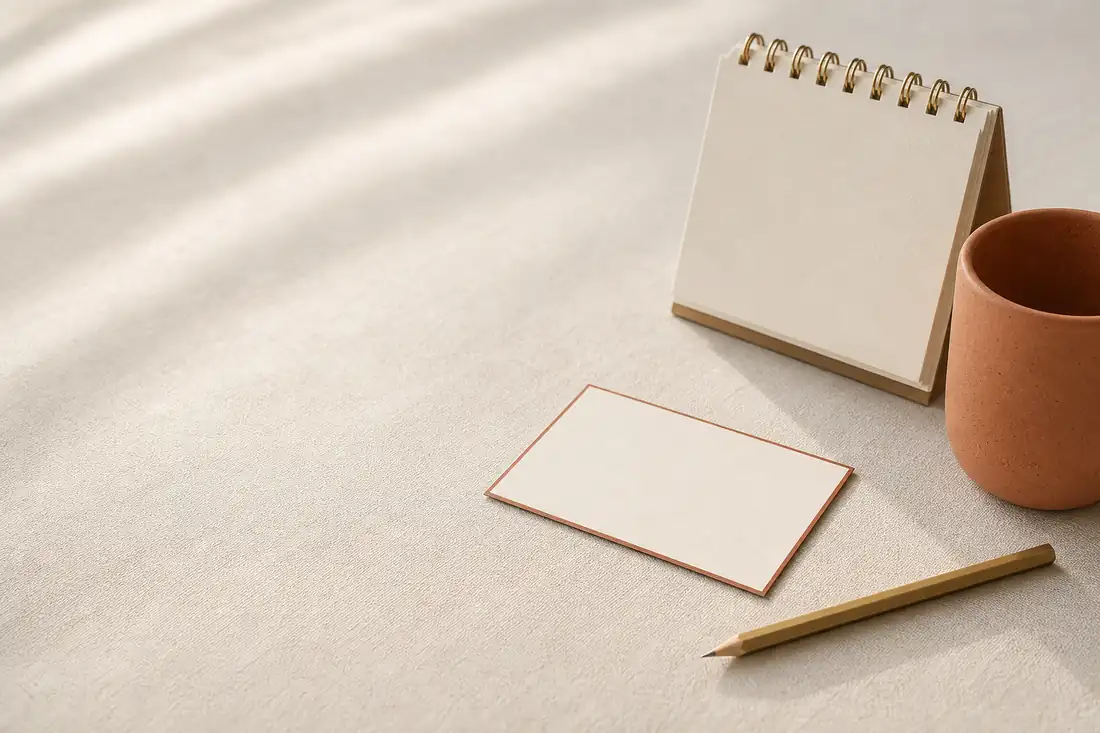
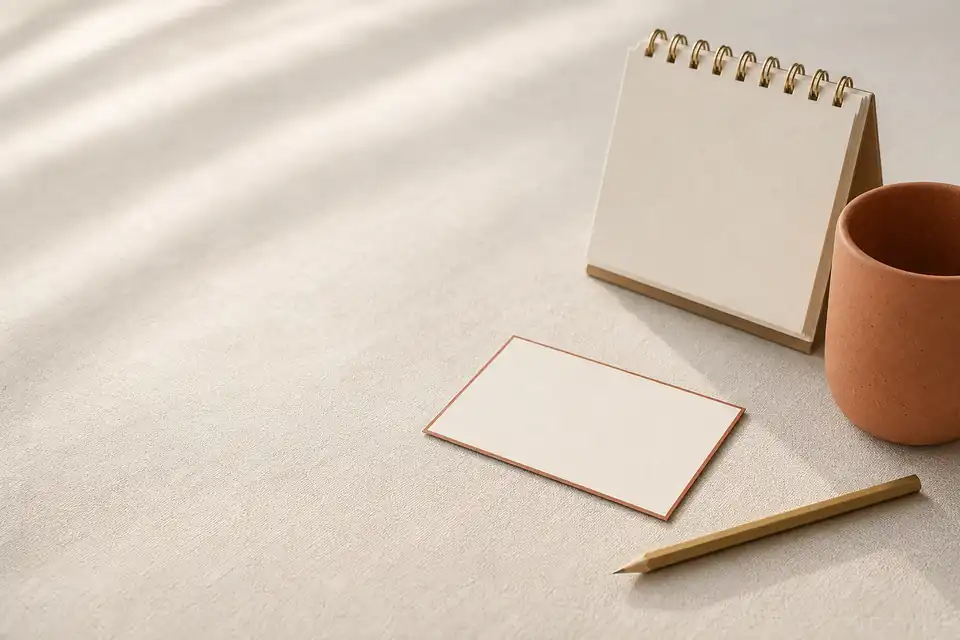
Smaller still life and phone images
Claude-Session: https://claude.ai/code/session_01SyiRJzD3MSy8BBZgBgRRrN

diff --git a/site/docs/asset-requests.md b/site/docs/asset-requests.md
@@ -6,8 +6,8 @@ To regenerate, run the prompt below with the given size, then convert as noted.
 
 | File | Used in | Size | Conversion |
 | --- | --- | --- | --- |
-| `public/assets/still-life.webp` | Final CTA (decorative, `alt=""`) | 1536×1024 | resized to 1100w, webp q55 |
-| `public/assets/customer-phone.webp` | "The customer's side" section, labelled "Illustration" | 1024×1536 | resized to 720w, webp q74 |
+| `public/assets/still-life.webp` | Final CTA (decorative, `alt=""`) | 1536×1024 | resized to 960w, webp q50 |
+| `public/assets/customer-phone.webp` | "The customer's side" section, labelled "Illustration" | 1024×1536 | resized to 640w, webp q70 |
 | `assets/og/backdrop.jpg` | Background of `/opengraph-image` | 1536×1024 | cover-crop to 600×315, jpeg q72 (stretched to 1200×630 in the OG image) |
 
 The phone's screen area is measured at left 34.47%, top 17.64%, width 36.43%, height 52.54% of the image.
